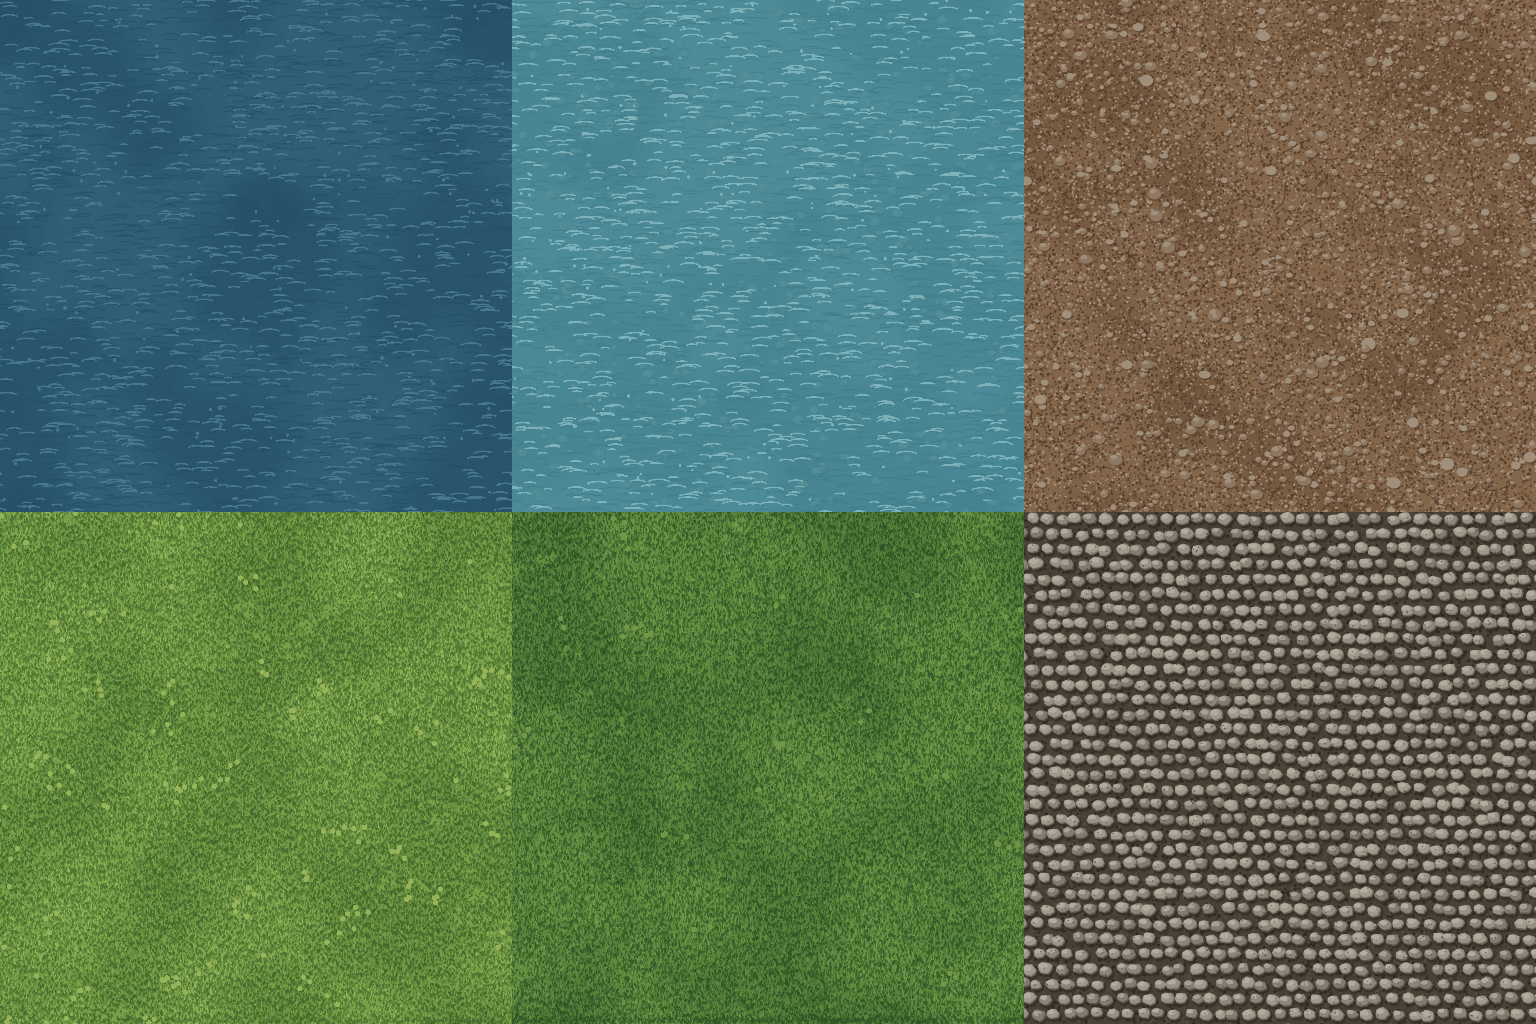
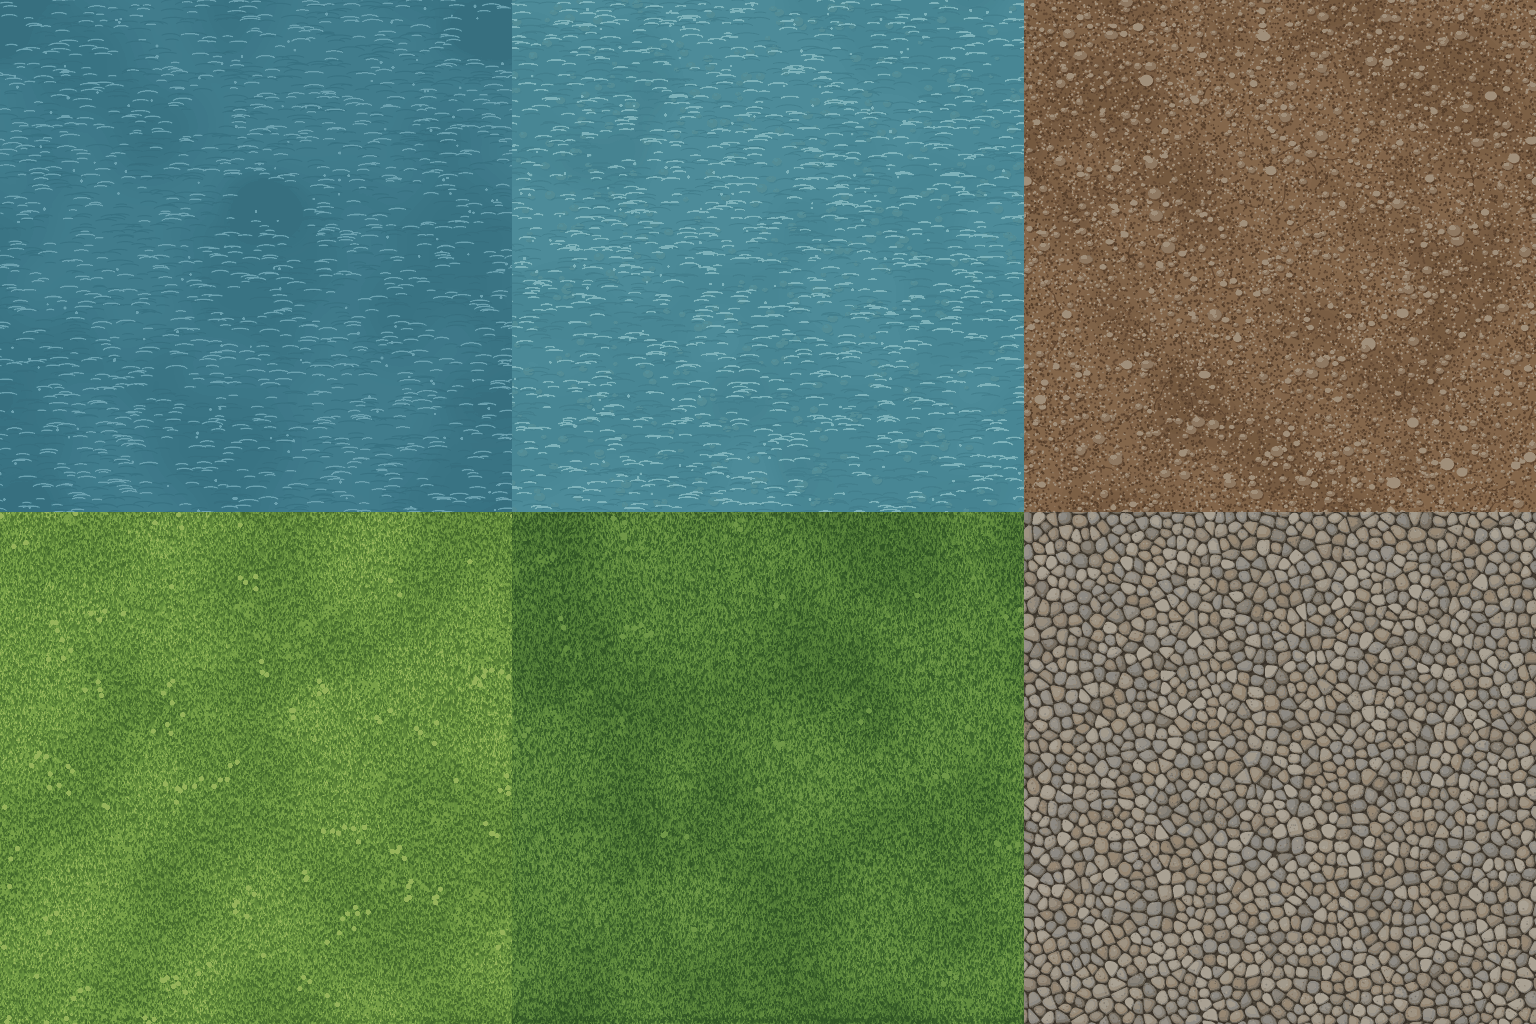
LLM-967: packed cobbles of mixed sizes; deep water close to the shallows
Jeff: the cobbles looked really bad and the deep water was too stark.
Cobbles are now Voronoi cells of dart-thrown centres, pulled in by a
thin joint and rounded, in three flat tones (a blur banded into rings
once cut to 16 colours). Deep water is a shade darker than the
shallows, not navy, and the shallows no longer cast a shadow on it.

Changed region(s): [[0.6562, 0.5, 1.0, 1.0], [0.0, 0.0, 0.3438, 0.5]]

diff --git a/tools/terrain-art/build.py b/tools/terrain-art/build.py
@@ -325,44 +325,136 @@ def paint_dirt(seed, pal):
     return cv.img
 
 
+def _clip(poly, nx, ny, limit):
+    """Sutherland-Hodgman: keep the part of poly where x*nx + y*ny <= limit."""
+    out = []
+    for i in range(len(poly)):
+        ax, ay = poly[i]
+        bx, by = poly[(i + 1) % len(poly)]
+        da = ax * nx + ay * ny - limit
+        db = bx * nx + by * ny - limit
+        if da <= 0:
+            out.append((ax, ay))
+        if (da <= 0) != (db <= 0):
+            t = da / (da - db)
+            out.append((ax + (bx - ax) * t, ay + (by - ay) * t))
+    return out
+
+
+def _chaikin(poly, rounds):
+    """Round a polygon's corners by corner cutting."""
+    for _ in range(rounds):
+        out = []
+        for i in range(len(poly)):
+            ax, ay = poly[i]
+            bx, by = poly[(i + 1) % len(poly)]
+            out.append((ax * 0.75 + bx * 0.25, ay * 0.75 + by * 0.25))
+            out.append((ax * 0.25 + bx * 0.75, ay * 0.25 + by * 0.75))
+        poly = out
+    return poly
+
+
+def _stone_sites(rnd, rmin, rmax, tries):
+    """Stone centres by dart throwing on the wrapping canvas: each stone has
+    its own size, and no two sit closer than their sizes allow, so big and
+    small stones pack together with no rows."""
+    cell = 2 * rmax
+    n = int(W // cell)
+    grid = {}
+    sites = []
+    for _ in range(tries):
+        x = rnd.uniform(0, W)
+        y = rnd.uniform(0, W)
+        r = rnd.uniform(rmin, rmax)
+        gx = int(x // cell) % n
+        gy = int(y // cell) % n
+        ok = True
+        for dx in (-1, 0, 1):
+            for dy in (-1, 0, 1):
+                for j in grid.get(((gx + dx) % n, (gy + dy) % n), ()):
+                    sx, sy, sr = sites[j]
+                    ddx = (x - sx + W / 2) % W - W / 2
+                    ddy = (y - sy + W / 2) % W - W / 2
+                    if math.hypot(ddx, ddy) < (r + sr) * 0.92:
+                        ok = False
+                        break
+                if not ok:
+                    break
+            if not ok:
+                break
+        if ok:
+            grid.setdefault((gx, gy), []).append(len(sites))
+            sites.append((x, y, r))
+    return sites, grid, cell, n
+
+
 def paint_cobble(seed, pal):
+    """Cobbles packed tight: each stone is its centre's Voronoi cell, pulled
+    in from its neighbours by the joint and rounded, so stones of mixed sizes
+    fit together with thin earthy joints. Shading is soft: a dark lower-right
+    edge, a gentle sheen up-left, and a shadow into the joint."""
     rnd = random.Random(seed)
     cv = Canvas(pal["gap"])
     speckle(cv, rnd, [pal["gap_dark"], pal["moss"]], 9000, 3, 7)
-    step = 60
-    n = W // step
-    lay_shadow = cv.layer()
-    lay = cv.layer()
-    ds = ImageDraw.Draw(lay_shadow)
-    d = ImageDraw.Draw(lay)
-    for gy in range(n):
-        for gx in range(n):
-            x = (gx + 0.5) * step + rnd.uniform(-12, 12) + (step / 2 if gy % 2 else 0)
-            y = (gy + 0.5) * step + rnd.uniform(-8, 8)
-            r = step * rnd.uniform(0.40, 0.50)
-            k = rnd.randint(7, 10)
-            pts = []
-            for i in range(k):
-                a = math.tau * i / k + rnd.uniform(-0.2, 0.2)
-                rr = r * rnd.uniform(0.82, 1.05)
-                pts.append((math.cos(a) * rr * 1.1, math.sin(a) * rr * 0.9))
-            col = mix(rgb(rnd.choice(pal["stones"])), rgb(pal["warm"]), rnd.uniform(0, 0.25))
-            lit = mix(col, rgb(pal["lit"]), 0.55)
-            dark = mix(col, rgb(pal["gap_dark"]), 0.45)
-            cap = rgb(pal["cap"]) if pal.get("cap") else lit
+    gap = 5.0
+    sites, grid, cell, n = _stone_sites(rnd, 17, 30, 60000)
+    shadow = cv.layer()
+    body = cv.layer()
+    sheen = cv.layer()
+    ds = ImageDraw.Draw(shadow)
+    db = ImageDraw.Draw(body)
+    dh = ImageDraw.Draw(sheen)
+    for i, (x, y, r) in enumerate(sites):
+        reach = 4 * r
+        poly = [(-reach, -reach), (reach, -reach), (reach, reach), (-reach, reach)]
+        gx = int(x // cell) % n
+        gy = int(y // cell) % n
+        for dx in (-2, -1, 0, 1, 2):
+            for dy in (-2, -1, 0, 1, 2):
+                for j in grid.get(((gx + dx) % n, (gy + dy) % n), ()):
+                    if j == i or not poly:
+                        continue
+                    sx, sy, _ = sites[j]
+                    vx = (sx - x + W / 2) % W - W / 2
+                    vy = (sy - y + W / 2) % W - W / 2
+                    dist = math.hypot(vx, vy)
+                    if dist == 0 or dist > reach * 2:
+                        continue
+                    # The bisector, moved toward this stone by half the joint.
+                    poly = _clip(poly, vx / dist, vy / dist, dist / 2 - gap / 2)
+        if len(poly) < 3:
+            continue
+        poly = _chaikin(poly, 2)
+        size = max(math.hypot(px, py) for px, py in poly)
+        tone = rnd.uniform(-0.08, 0.08)
+        base = mix(rgb(rnd.choice(pal["stones"])), rgb(pal["warm"]), rnd.uniform(0, 0.3))
+        base = tuple(max(0, min(255, int(c * (1 + tone)))) for c in base[:3]) + (255,)
+        edge = mix(base, rgb(pal["gap_dark"]), 0.35)
+        if pal.get("cap"):
+            lit, lit_scale, lit_shift = rgb(pal["cap"]), 0.68, 0.18
+        else:
+            lit, lit_scale, lit_shift = mix(base, rgb(pal["lit"]), 0.22), 0.6, 0.16
 
-            def stone(dr, bx, by, pts=pts, col=col, cap=cap, dark=dark):
-                dr.polygon([(bx + px, by + py) for px, py in pts], fill=dark)
-                dr.polygon([(bx + px * 0.9 - 3, by + py * 0.88 - 3) for px, py in pts], fill=col)
-                # Lit top, or under snow a cap of snow on each stone.
-                scale_x, scale_y = (0.75, 0.6) if pal.get("cap") else (0.55, 0.45)
-                dr.polygon([(bx + px * scale_x - 9, by + py * scale_y - 10) for px, py in pts], fill=cap)
+        def draw_shadow(dr, bx, by, poly=poly):
+            dr.polygon([(bx + px + 4, by + py + 5) for px, py in poly], fill=rgb(pal["gap_dark"], 150))
 
-            cv.wrap_draw(ds, lambda dr, bx, by, pts=pts: dr.polygon([(bx + px + 6, by + py + 8) for px, py in pts], fill=rgb(pal["gap_dark"], 170)), x, y, r + 12)
-            cv.wrap_draw(d, stone, x, y, r + 12)
-    cv.blend(lay_shadow, 4)
-    cv.blend(lay)
-    speckle(cv, rnd, [pal["gap_dark"]], 3000, 1.5, 3, 140)
+        def draw_body(dr, bx, by, poly=poly, base=base, edge=edge):
+            # The edge shows only along the lower right: the body sits up-left on it.
+            dr.polygon([(bx + px, by + py) for px, py in poly], fill=edge)
+            dr.polygon([(bx + px * 0.93 - 3, by + py * 0.93 - 3) for px, py in poly], fill=base)
+
+        def draw_sheen(dr, bx, by, poly=poly, lit=lit, s=lit_scale, k=lit_shift, size=size):
+            dr.polygon([(bx + px * s - size * k, by + py * s - size * k) for px, py in poly], fill=lit)
+
+        cv.wrap_draw(ds, draw_shadow, x, y, size + 8)
+        cv.wrap_draw(db, draw_body, x, y, size + 4)
+        cv.wrap_draw(dh, draw_sheen, x, y, size)
+    cv.blend(shadow, 3)
+    cv.blend(body)
+    # Flat tones, not a blur: a smooth gradient bands into rings when the
+    # texture is cut to a few colours.
+    cv.blend(sheen)
+    speckle(cv, rnd, [pal["gap_dark"], pal["lit"]], 7000, 1.5, 3, 70)
     if pal.get("leaves"):
         fallen_leaves(cv, random.Random(seed + 500), 260, pal["leaves"], pal["gap_dark"])
     return cv.img
@@ -412,10 +504,11 @@ SUMMER = {
                      clover="5e9140", petals=["eae6d8"], centre="d4a83a"),
     DIRT: dict(base="7d6044", damp="634a34", dry="94765a", dark="533d2a", light="a3876a",
                stones=["8d8274", "9a8f80", "7e7466"], stone_lit="bdb3a3"),
-    COBBLESTONE: dict(gap="4a4036", gap_dark="2f2922", moss="4f5a33", stones=["8b877f", "9a958c", "7f7a72", "a39d92"],
+    COBBLESTONE: dict(gap="4a4036", gap_dark="2f2922", moss="4f5a33",
+                      stones=["8b877f", "9a958c", "7f7a72", "a39d92", "7d8288", "8f7e6a", "968a78"],
                       warm="9a8466", lit="c9c3b6"),
     SHALLOW_WATER: dict(base="4b8a98", deep="3c7584", lit="62a2ac", light="a6d6db", glint="e8f6f6", bed="6b8c80", bed_lit="8eab9c"),
-    DEEP_WATER: dict(base="2b5a72", deep="224b62", lit="356a83", light="5f93aa", glint="b9dbe6"),
+    DEEP_WATER: dict(base="3d7888", deep="336b7b", lit="478394", light="7fb3c0", glint="cfe8ee"),
 }
 
 LEAVES = ["c8702a", "d99a3a", "a8452a", "8f5b2a", "b8862e"]
@@ -428,7 +521,7 @@ AUTUMN = {
     DIRT: dict(SUMMER[DIRT], base="76593f", damp="5d4532", dry="8b6d50", dark="4d3826", light="9c7f62", leaves=LEAVES),
     COBBLESTONE: dict(SUMMER[COBBLESTONE], moss="5a5a33", leaves=LEAVES),
     SHALLOW_WATER: dict(SUMMER[SHALLOW_WATER], base="4c8592", deep="3d717e", lit="5f9ba5"),
-    DEEP_WATER: dict(SUMMER[DEEP_WATER], base="2c566c", deep="23485c"),
+    DEEP_WATER: dict(SUMMER[DEEP_WATER], base="3c7483", deep="336777", lit="457e8c"),
 }
 
 WINTER = {
@@ -438,7 +531,7 @@ WINTER = {
                stones=["858078", "918b82", "79746c"], stone_lit="b0aaa0"),
     COBBLESTONE: dict(SUMMER[COBBLESTONE], gap="433b33", moss="4a4e36", stones=["86847f", "94918b", "7a7874", "9c9993"], warm="8a7d6c"),
     SHALLOW_WATER: dict(base="4f7a87", deep="416a77", lit="618b96", light="9cc0c8", glint="dff0f2", bed="627a74", bed_lit="7f9389"),
-    DEEP_WATER: dict(base="2b4f63", deep="233f52", lit="33596e", light="557f92", glint="aacbd6"),
+    DEEP_WATER: dict(base="416d7a", deep="39616e", lit="4a7784", light="7fa3ae", glint="c9dde3"),
 }
 
 SNOW = dict(base="e6ecf1", shadow="c7d2dd", deep_shadow="a9b8c7", light="f6f9fc", glint="ffffff")
